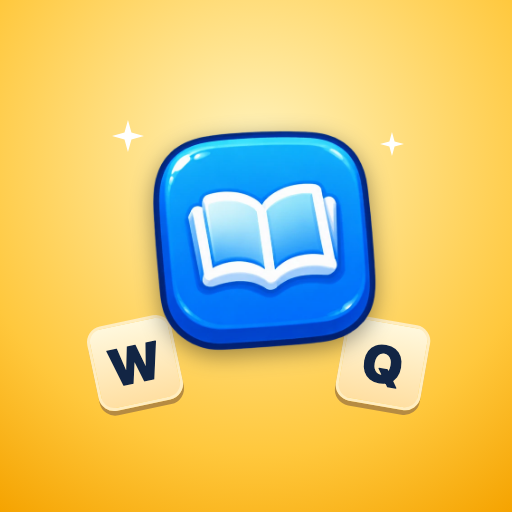
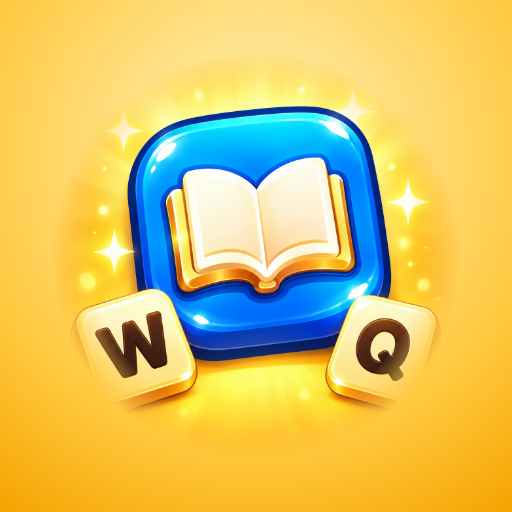
Ícone e splash gerados no ChatGPT (livro dourado, peças W e Q, vila)
- Ícone: arte gerada no ChatGPT a partir do ícone anterior e das artes do
  jogo; fonte em scripts/assets/icon-master.webp e recursos regerados por
  scripts/build-icons.mjs (legado, redondo, adaptativo e PWA).
- Splash: nova arte da vila (public/art/splash-vila-v2.webp), usada no
  Android 11 ou anterior (com a faixa preta do estúdio) e na abertura
  dentro do app, agora com o novo ícone como emblema.
- Créditos citam o ChatGPT entre as ferramentas de arte.
- APK 4.0 (versionCode 31).

diff --git a/src/components/StudioSplash.tsx b/src/components/StudioSplash.tsx
@@ -56,12 +56,8 @@ export function StudioSplash({ ready }: { ready: boolean }) {
       onClick={skip}
     >
       <div className="splash-game" aria-hidden="true">
-        <img
-          className="splash-village"
-          src="/art/village-approved-v1.webp"
-          alt=""
-        />
-        <span className="game-art art-book" />
+        <img className="splash-village" src="/art/splash-vila-v2.webp" alt="" />
+        <img className="splash-emblem" src="/icon-512.png" alt="" />
         <img className="splash-logo" src="/art/wordquest-logo-v1.webp" alt="" />
       </div>
       <div

diff --git a/src/features/Credits.tsx b/src/features/Credits.tsx
@@ -43,8 +43,8 @@ export function Credits() {
           <h2>Arte</h2>
           <p>
             Cenários, mapas, personagens, ícones e logo foram criados com
-            ferramentas de inteligência artificial (Leonardo.ai e um gerador de
-            imagens integrado) e ajustados para o jogo.
+            ferramentas de inteligência artificial (Leonardo.ai, ChatGPT e um
+            gerador de imagens integrado) e ajustados para o jogo.
           </p>
         </article>
         <article>

diff --git a/src/app/styles/splash.css b/src/app/styles/splash.css
@@ -35,11 +35,11 @@
   z-index: -1;
   background: linear-gradient(#1b3f8a55, #1b3f8a22 45%, #0a1a4a66);
 }
-.splash-game .art-book {
-  width: 76px;
-  height: 100px;
-  transform: none;
-  filter: drop-shadow(0 4px 8px #0008);
+.splash-emblem {
+  width: 104px;
+  height: 104px;
+  border-radius: 22%;
+  box-shadow: 0 6px 14px #0007;
 }
 .splash-logo {
   width: min(78vw, 360px);
